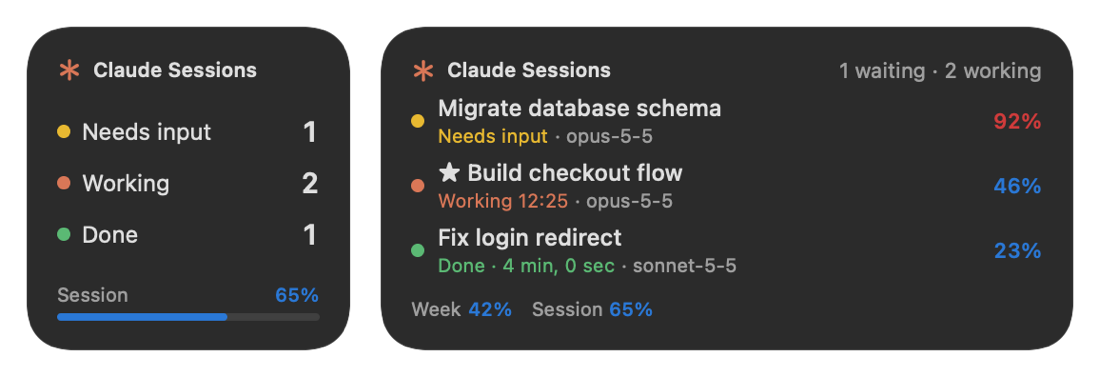
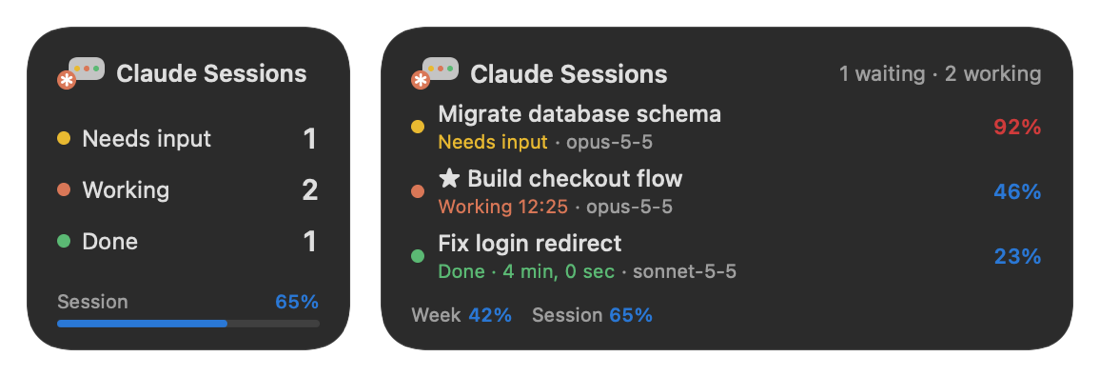
0.2.3: 맥 위젯 고침과 새 아이콘, 버전 올림
- 소개 페이지: 위젯 미리보기를 새 머리 마크로 다시 그리고, 새 아이콘으로 파비콘·홈 화면 아이콘을 단다

diff --git a/docs/ko/index.html b/docs/ko/index.html
@@ -22,6 +22,8 @@
 <script>
   if (location.hostname.endsWith('github.io')) location.replace('https://claude-overlay.jsuk.cloud/' + location.pathname.replace(/^\/claude-overlay\//, '') + location.hash);
 </script>
+<link rel="icon" type="image/png" href="../favicon.png">
+<link rel="apple-touch-icon" href="../apple-touch-icon.png">
 <link rel="stylesheet" href="../site.css">
 <script async src="https://www.googletagmanager.com/gtag/js?id=G-0XK79SYGFF"></script>
 <script>
@@ -43,7 +45,7 @@
   "description": "돌고 있는 Claude Code 세션, 컨텍스트 사용량, 주간·5시간 사용량 한도를 항상 위에 띄워 보여 주는 Windows·macOS 오버레이.",
   "applicationCategory": "DeveloperApplication",
   "operatingSystem": "Windows 10, Windows 11, macOS 11+",
-  "softwareVersion": "0.2.2",
+  "softwareVersion": "0.2.3",
   "license": "https://opensource.org/licenses/MIT",
   "url": "https://claude-overlay.jsuk.cloud/ko/",
   "downloadUrl": "https://github.com/jsuk10/claude-overlay/releases/latest/download/ClaudeSessionOverlay.exe",

diff --git a/docs/index.html b/docs/index.html
@@ -22,6 +22,8 @@
 <script>
   if (location.hostname.endsWith('github.io')) location.replace('https://claude-overlay.jsuk.cloud/' + location.pathname.replace(/^\/claude-overlay\//, '') + location.hash);
 </script>
+<link rel="icon" type="image/png" href="favicon.png">
+<link rel="apple-touch-icon" href="apple-touch-icon.png">
 <link rel="stylesheet" href="site.css">
 <script async src="https://www.googletagmanager.com/gtag/js?id=G-0XK79SYGFF"></script>
 <script>
@@ -43,7 +45,7 @@
   "description": "Always-on-top Windows and macOS overlay that shows every running Claude Code session, its context window usage and your weekly and 5-hour usage limits.",
   "applicationCategory": "DeveloperApplication",
   "operatingSystem": "Windows 10, Windows 11, macOS 11+",
-  "softwareVersion": "0.2.2",
+  "softwareVersion": "0.2.3",
   "license": "https://opensource.org/licenses/MIT",
   "url": "https://claude-overlay.jsuk.cloud/",
   "downloadUrl": "https://github.com/jsuk10/claude-overlay/releases/latest/download/ClaudeSessionOverlay.exe",
